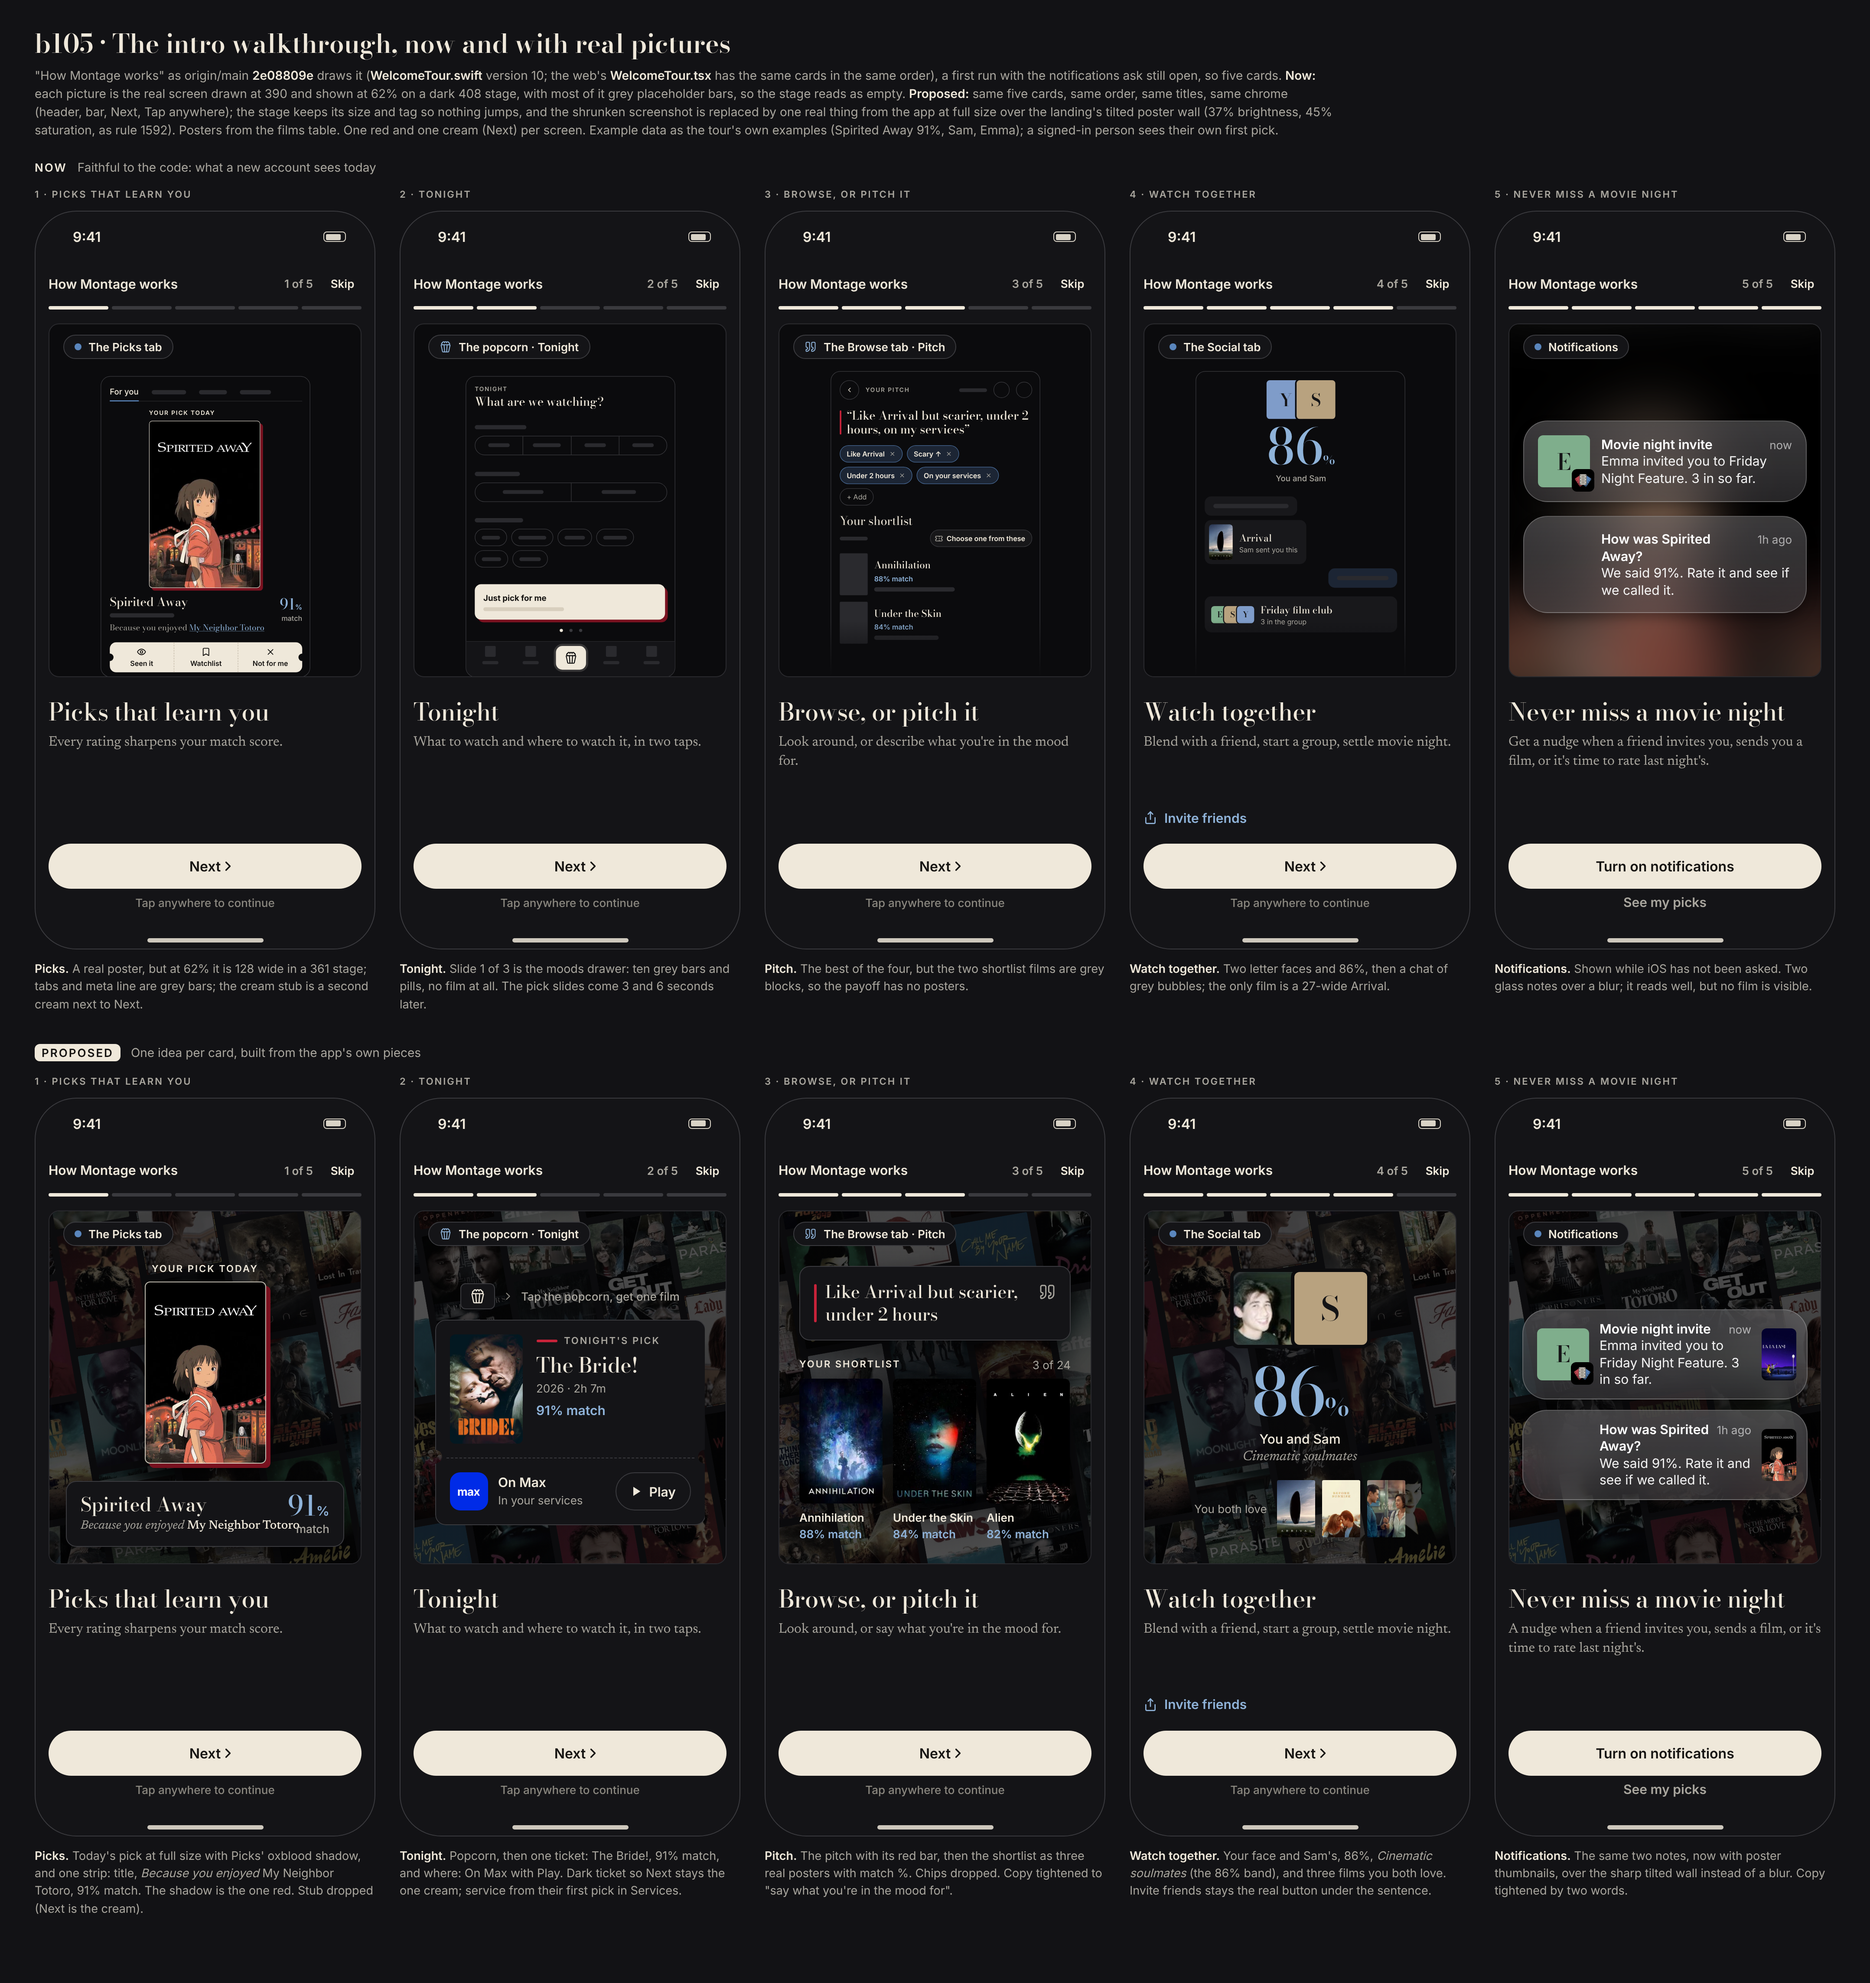
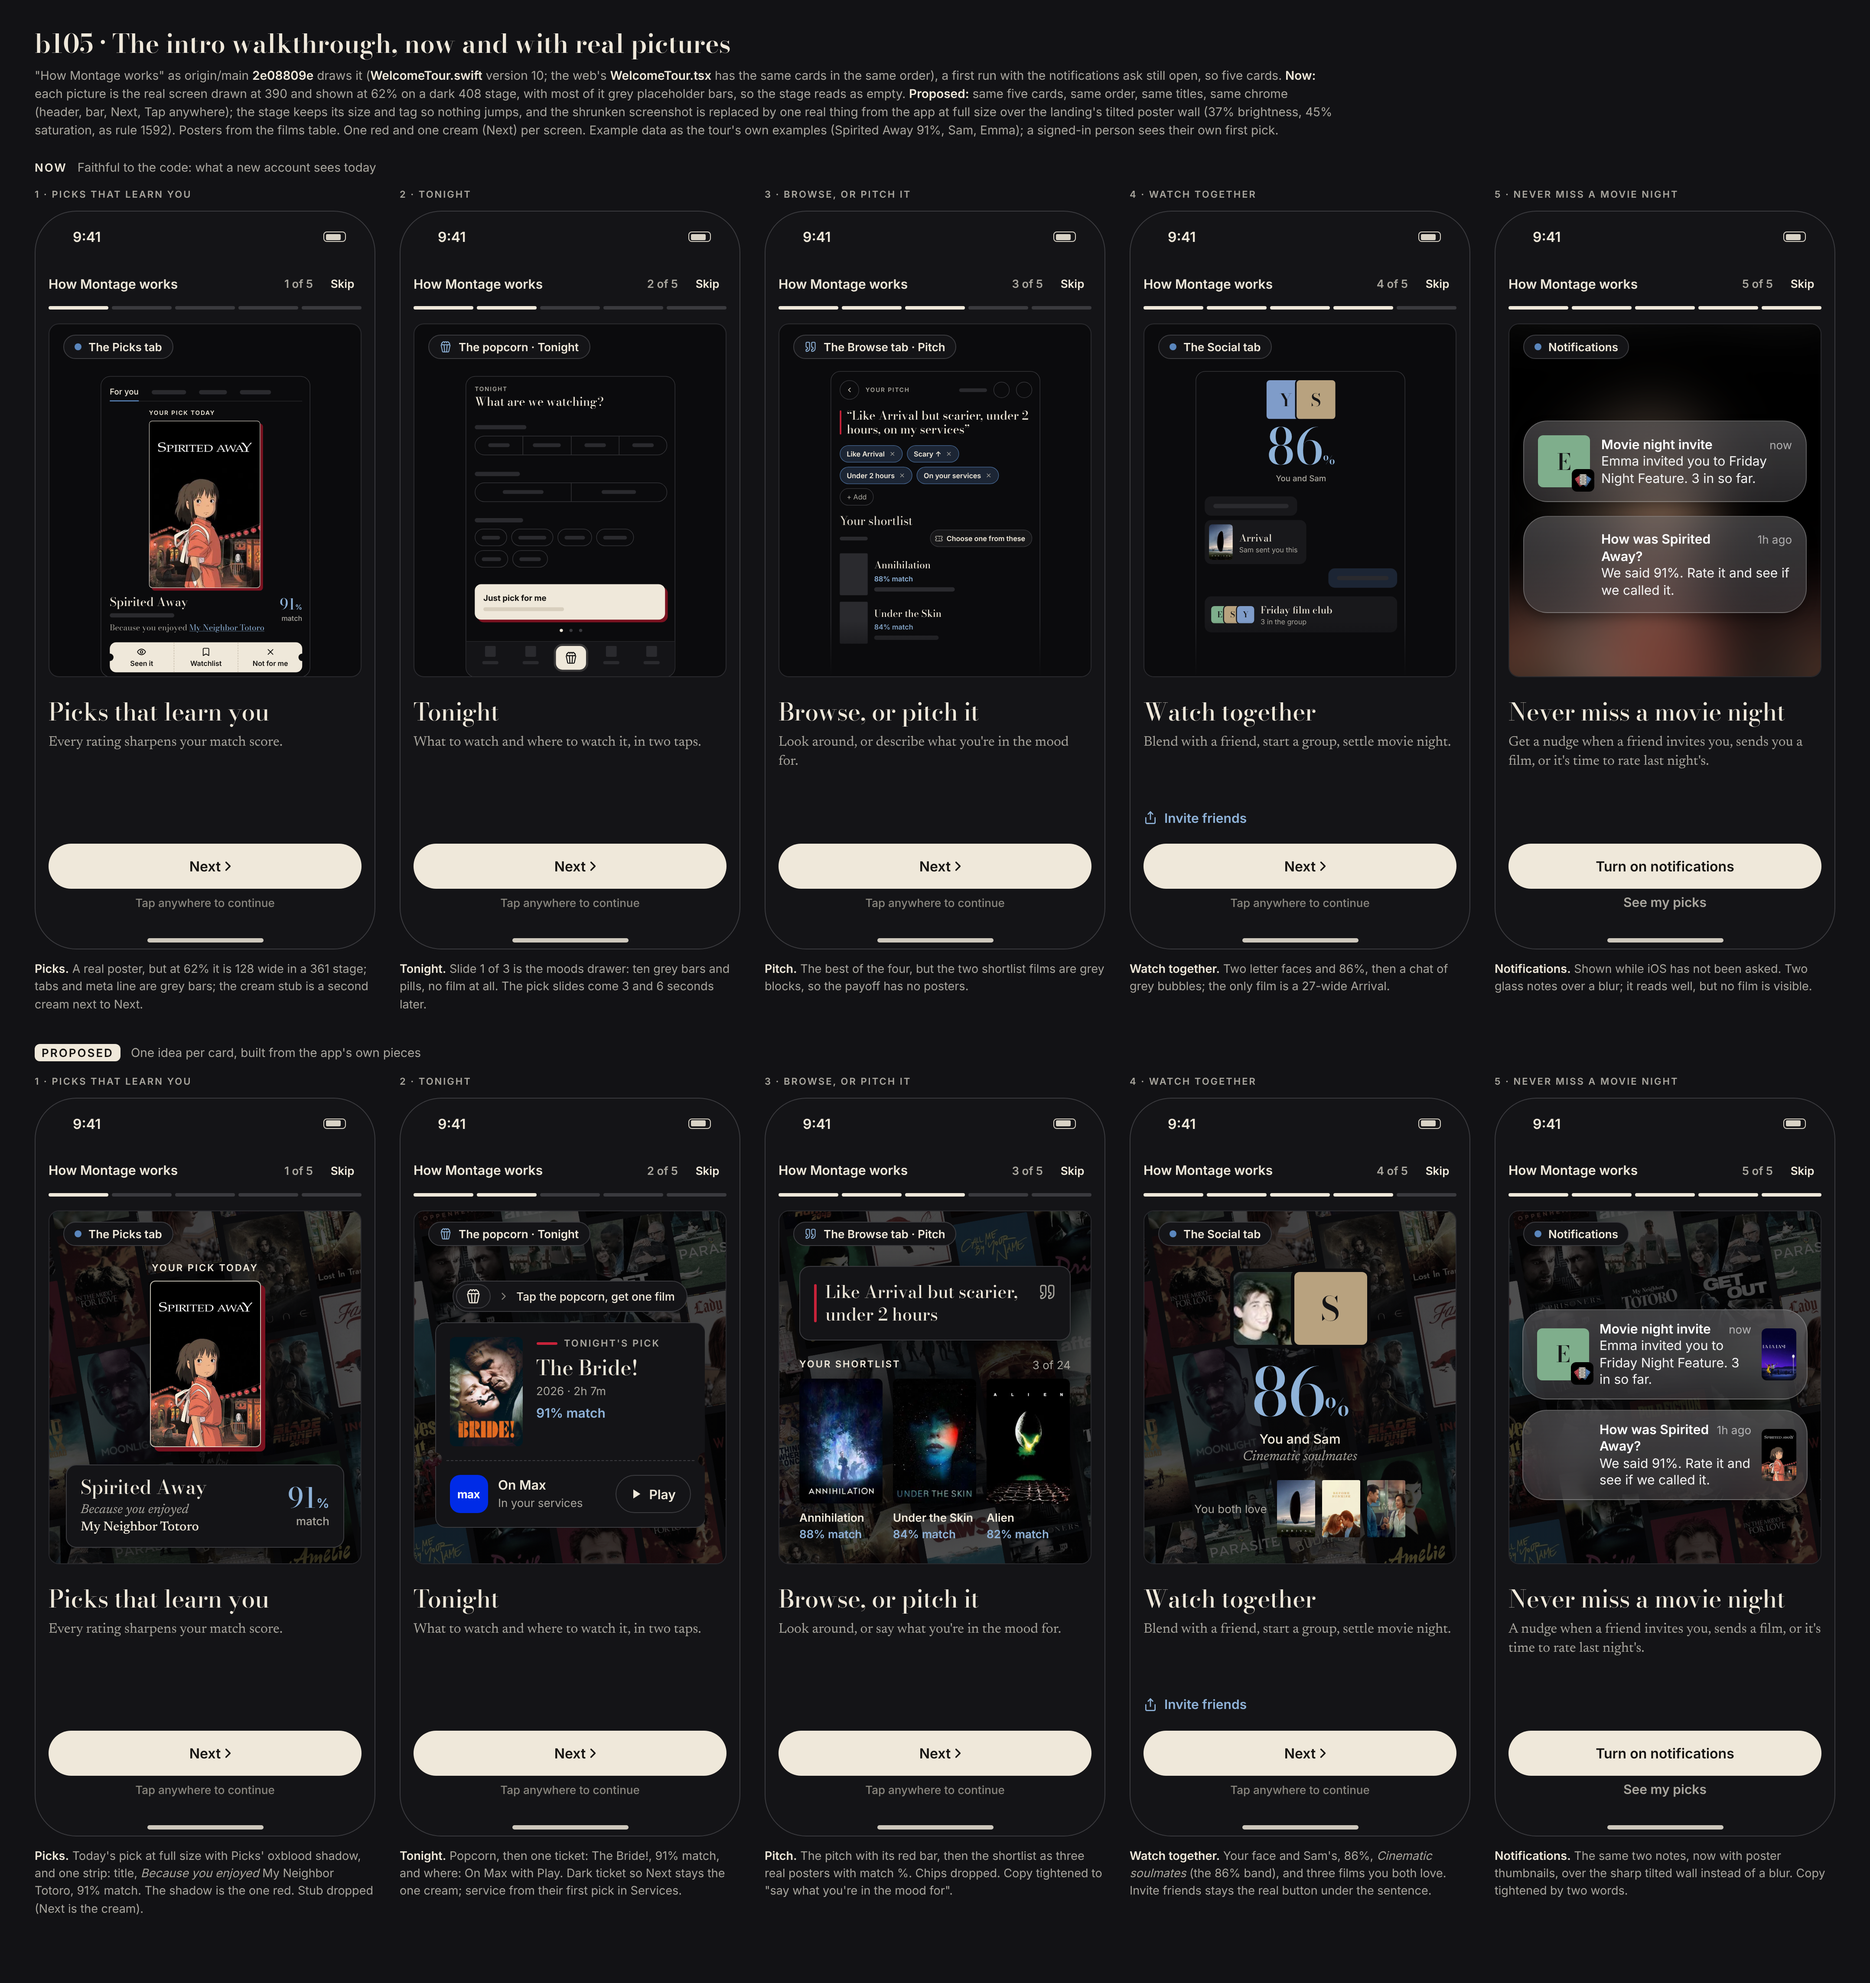
Work in progress: mocks
Claude-Session: https://claude.ai/code/session_013WRDCFXH8nihP92apJAVW7

diff --git a/mockups/journeys/b105-walkthrough.html b/mockups/journeys/b105-walkthrough.html
@@ -128,11 +128,12 @@ body{background:#121215;color:var(--ink);font:400 15px/1.45 var(--ui)}
 .card{background:var(--panel);border:1px solid var(--line2);border-radius:12px;box-shadow:0 12px 32px rgba(0,0,0,.55)}
 /* 1 Picks */
 .pk-dl{font:600 11px var(--ui);letter-spacing:1.5px;text-transform:uppercase;color:var(--ink);margin-bottom:8px;display:flex;align-items:center;gap:8px}
-.pk-po{width:140px;height:210px;border-radius:6px;background:center/cover;box-shadow:5px 5px 0 var(--shadow),0 16px 32px rgba(0,0,0,.6);outline:1px solid rgba(239,232,218,.8);outline-offset:-1px}
+.pk-po{width:128px;height:192px;border-radius:6px;background:center/cover;box-shadow:5px 5px 0 var(--shadow),0 16px 32px rgba(0,0,0,.6);outline:1px solid rgba(239,232,218,.8);outline-offset:-1px}
 .pk-info{width:321px;margin-top:20px;padding:12px 16px;display:flex;align-items:center;gap:12px}
 .pk-info .l{flex:1;min-width:0}
 .pk-info .t{font:500 22px/26px var(--bod)}
-.pk-info .w{font:400 14px/20px var(--news);color:var(--muted);margin-top:2px;white-space:nowrap}
+.pk-info .w{font:400 15px/20px var(--news);color:var(--muted);margin-top:4px}
+.pk-info .w b{display:block}
 .pk-info .w em{font-style:italic}.pk-info .w b{font-weight:500;color:var(--ink)}
 .pct{text-align:right;flex:none}
 .pct .n{font:500 32px/32px var(--bod);color:var(--accent2)}.pct .n small{font:600 15px var(--ui)}
@@ -152,8 +153,8 @@ body{background:#121215;color:var(--ink);font:400 15px/1.45 var(--ui)}
 .tk .go .w{flex:1}.tk .go .w b{display:block;font:600 15px var(--ui)}.tk .go .w span{font:400 13px var(--ui);color:var(--muted)}
 .tk .play{height:44px;padding:0 16px;border-radius:999px;border:1px solid var(--line2);display:flex;align-items:center;gap:8px;font:600 15px var(--ui)}
 .tk .play svg{width:14px;height:14px;fill:var(--ink);stroke:none}
-.taps{display:flex;align-items:center;gap:8px;margin-bottom:12px;font:500 13px var(--ui);color:var(--muted)}
-.taps .p{width:40px;height:30px;border-radius:6px;border:1px solid var(--line2);background:var(--panel);display:flex;align-items:center;justify-content:center}
+.taps{display:flex;align-items:center;gap:8px;margin-bottom:12px;font:500 13px var(--ui);color:var(--ink);height:36px;padding:0 14px 0 3px;border-radius:999px;background:var(--panel);border:1px solid var(--line2)}
+.taps .p{width:40px;height:28px;border-radius:999px;background:var(--p2);border:1px solid var(--line2);display:flex;align-items:center;justify-content:center}
 .taps .p svg{width:18px;height:18px;stroke:var(--ink);stroke-width:1.75}
 .taps .ar{width:14px;height:14px;stroke:var(--faint);stroke-width:2}
 /* 3 Pitch */
